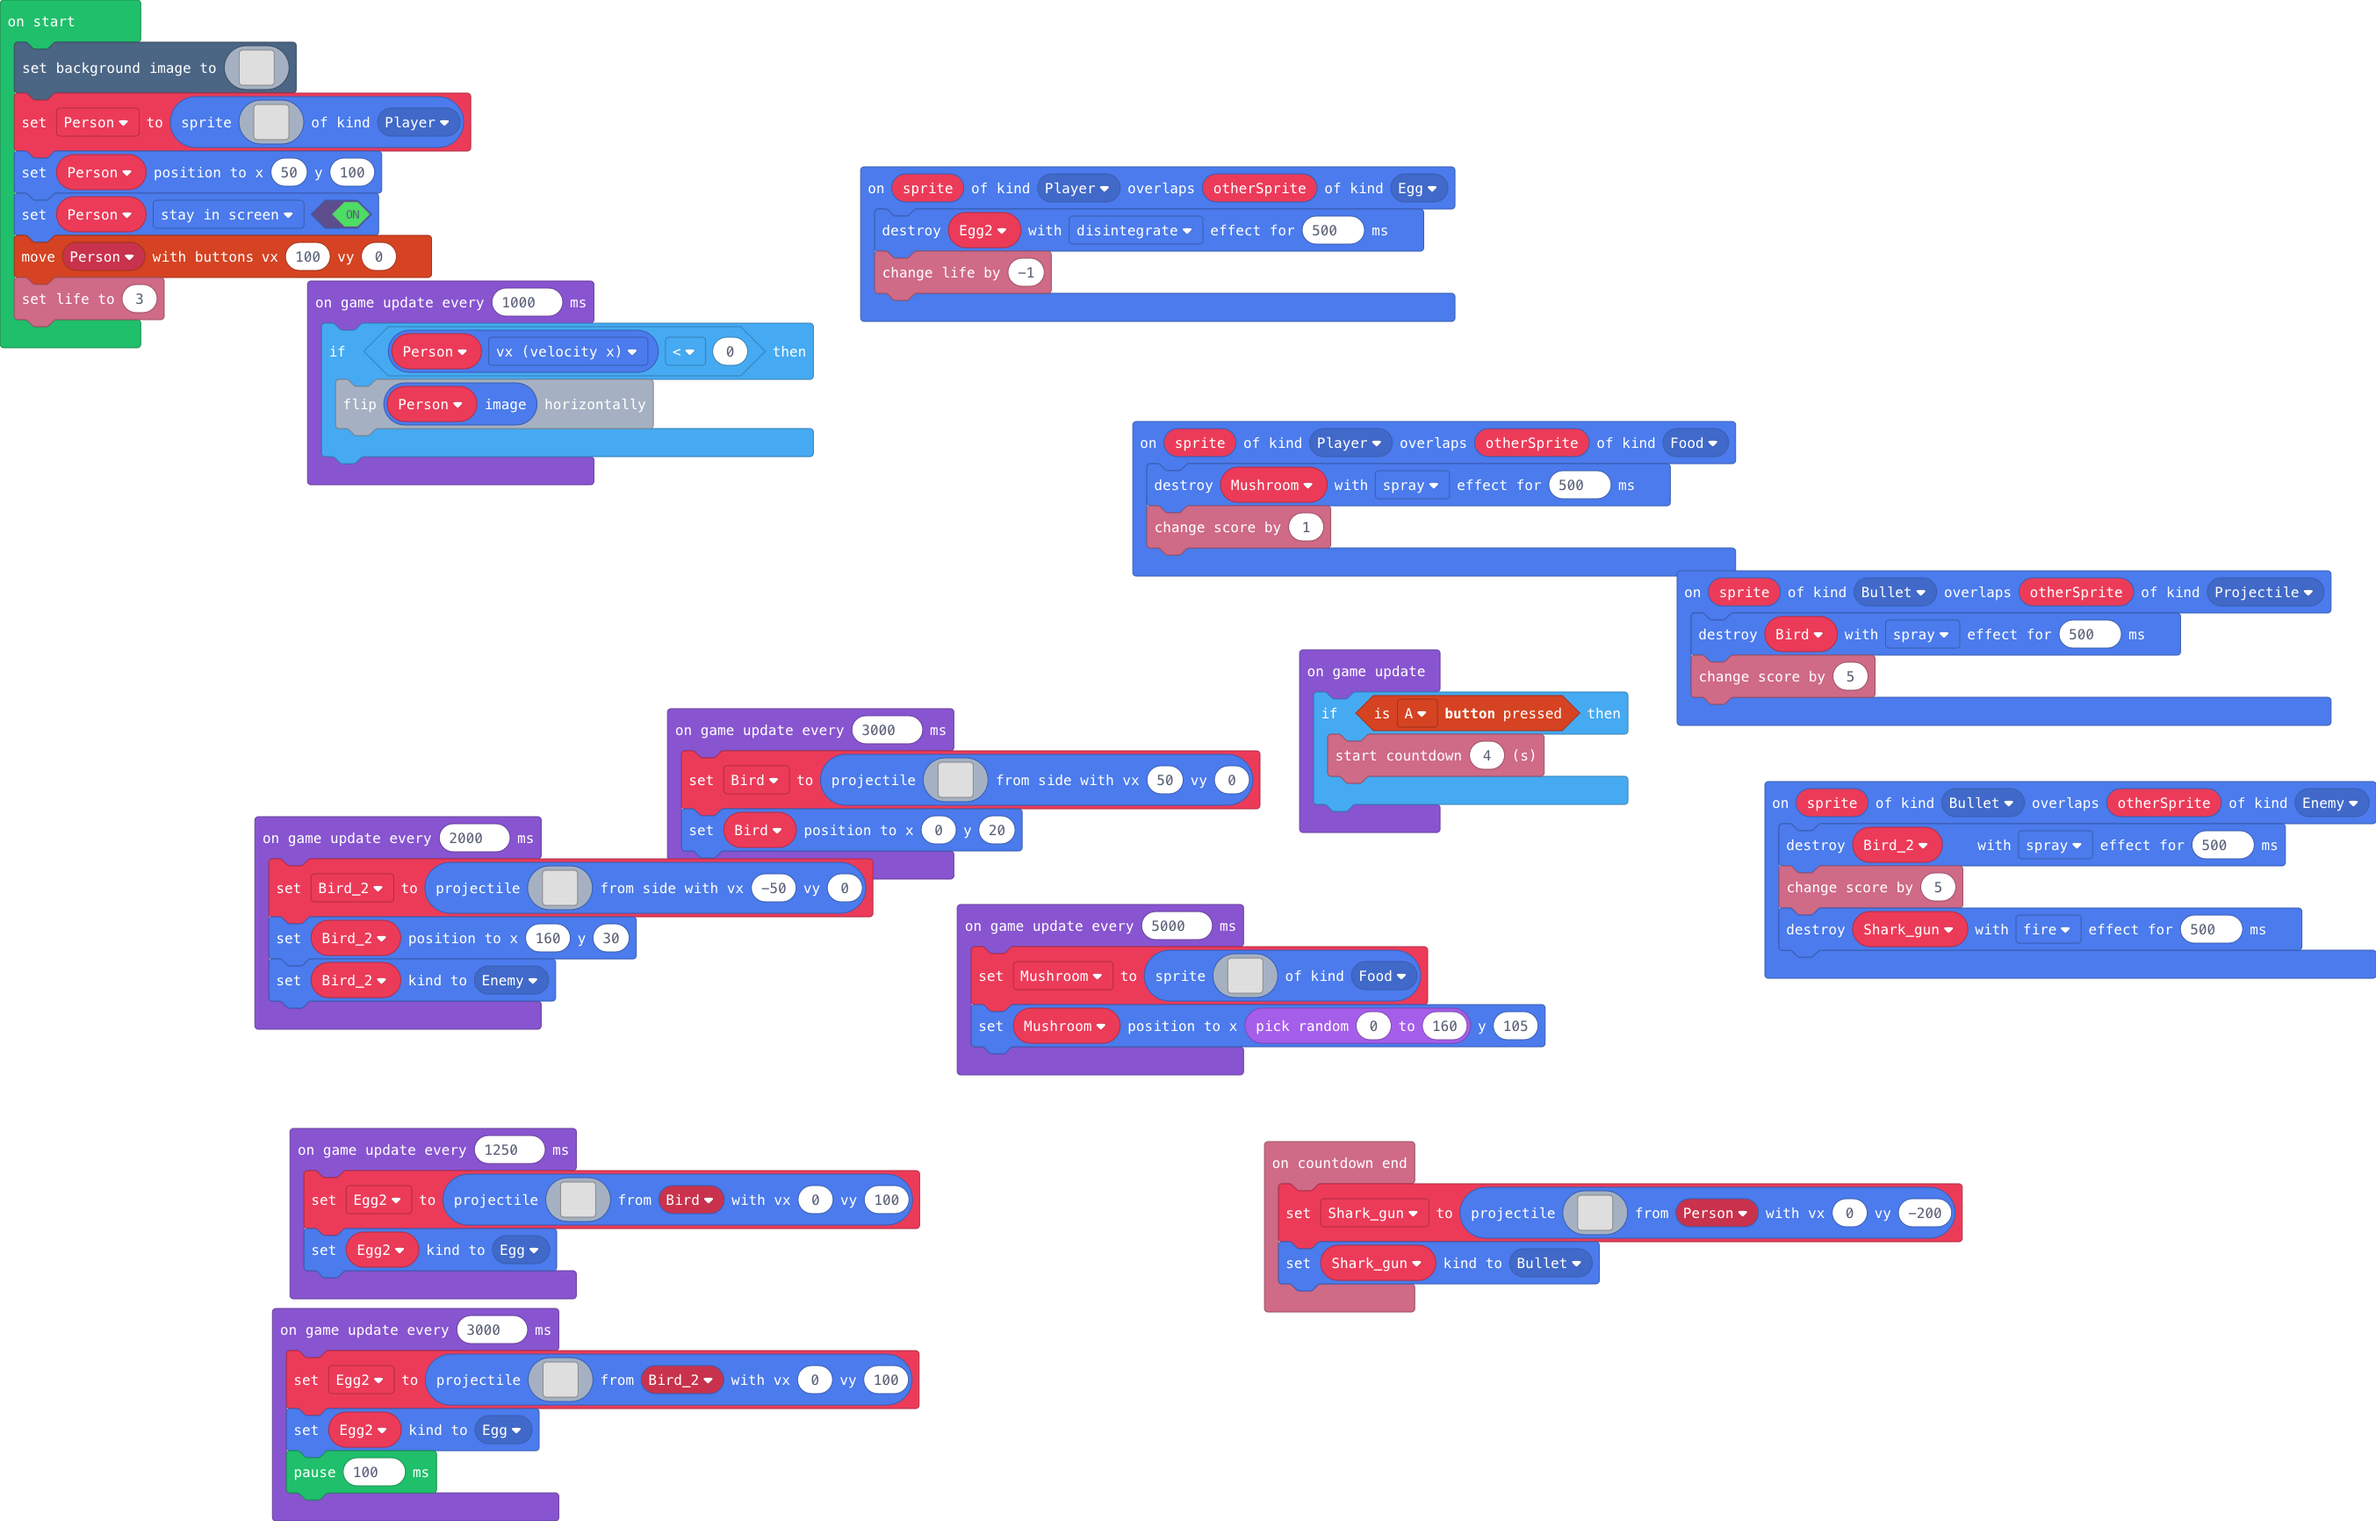
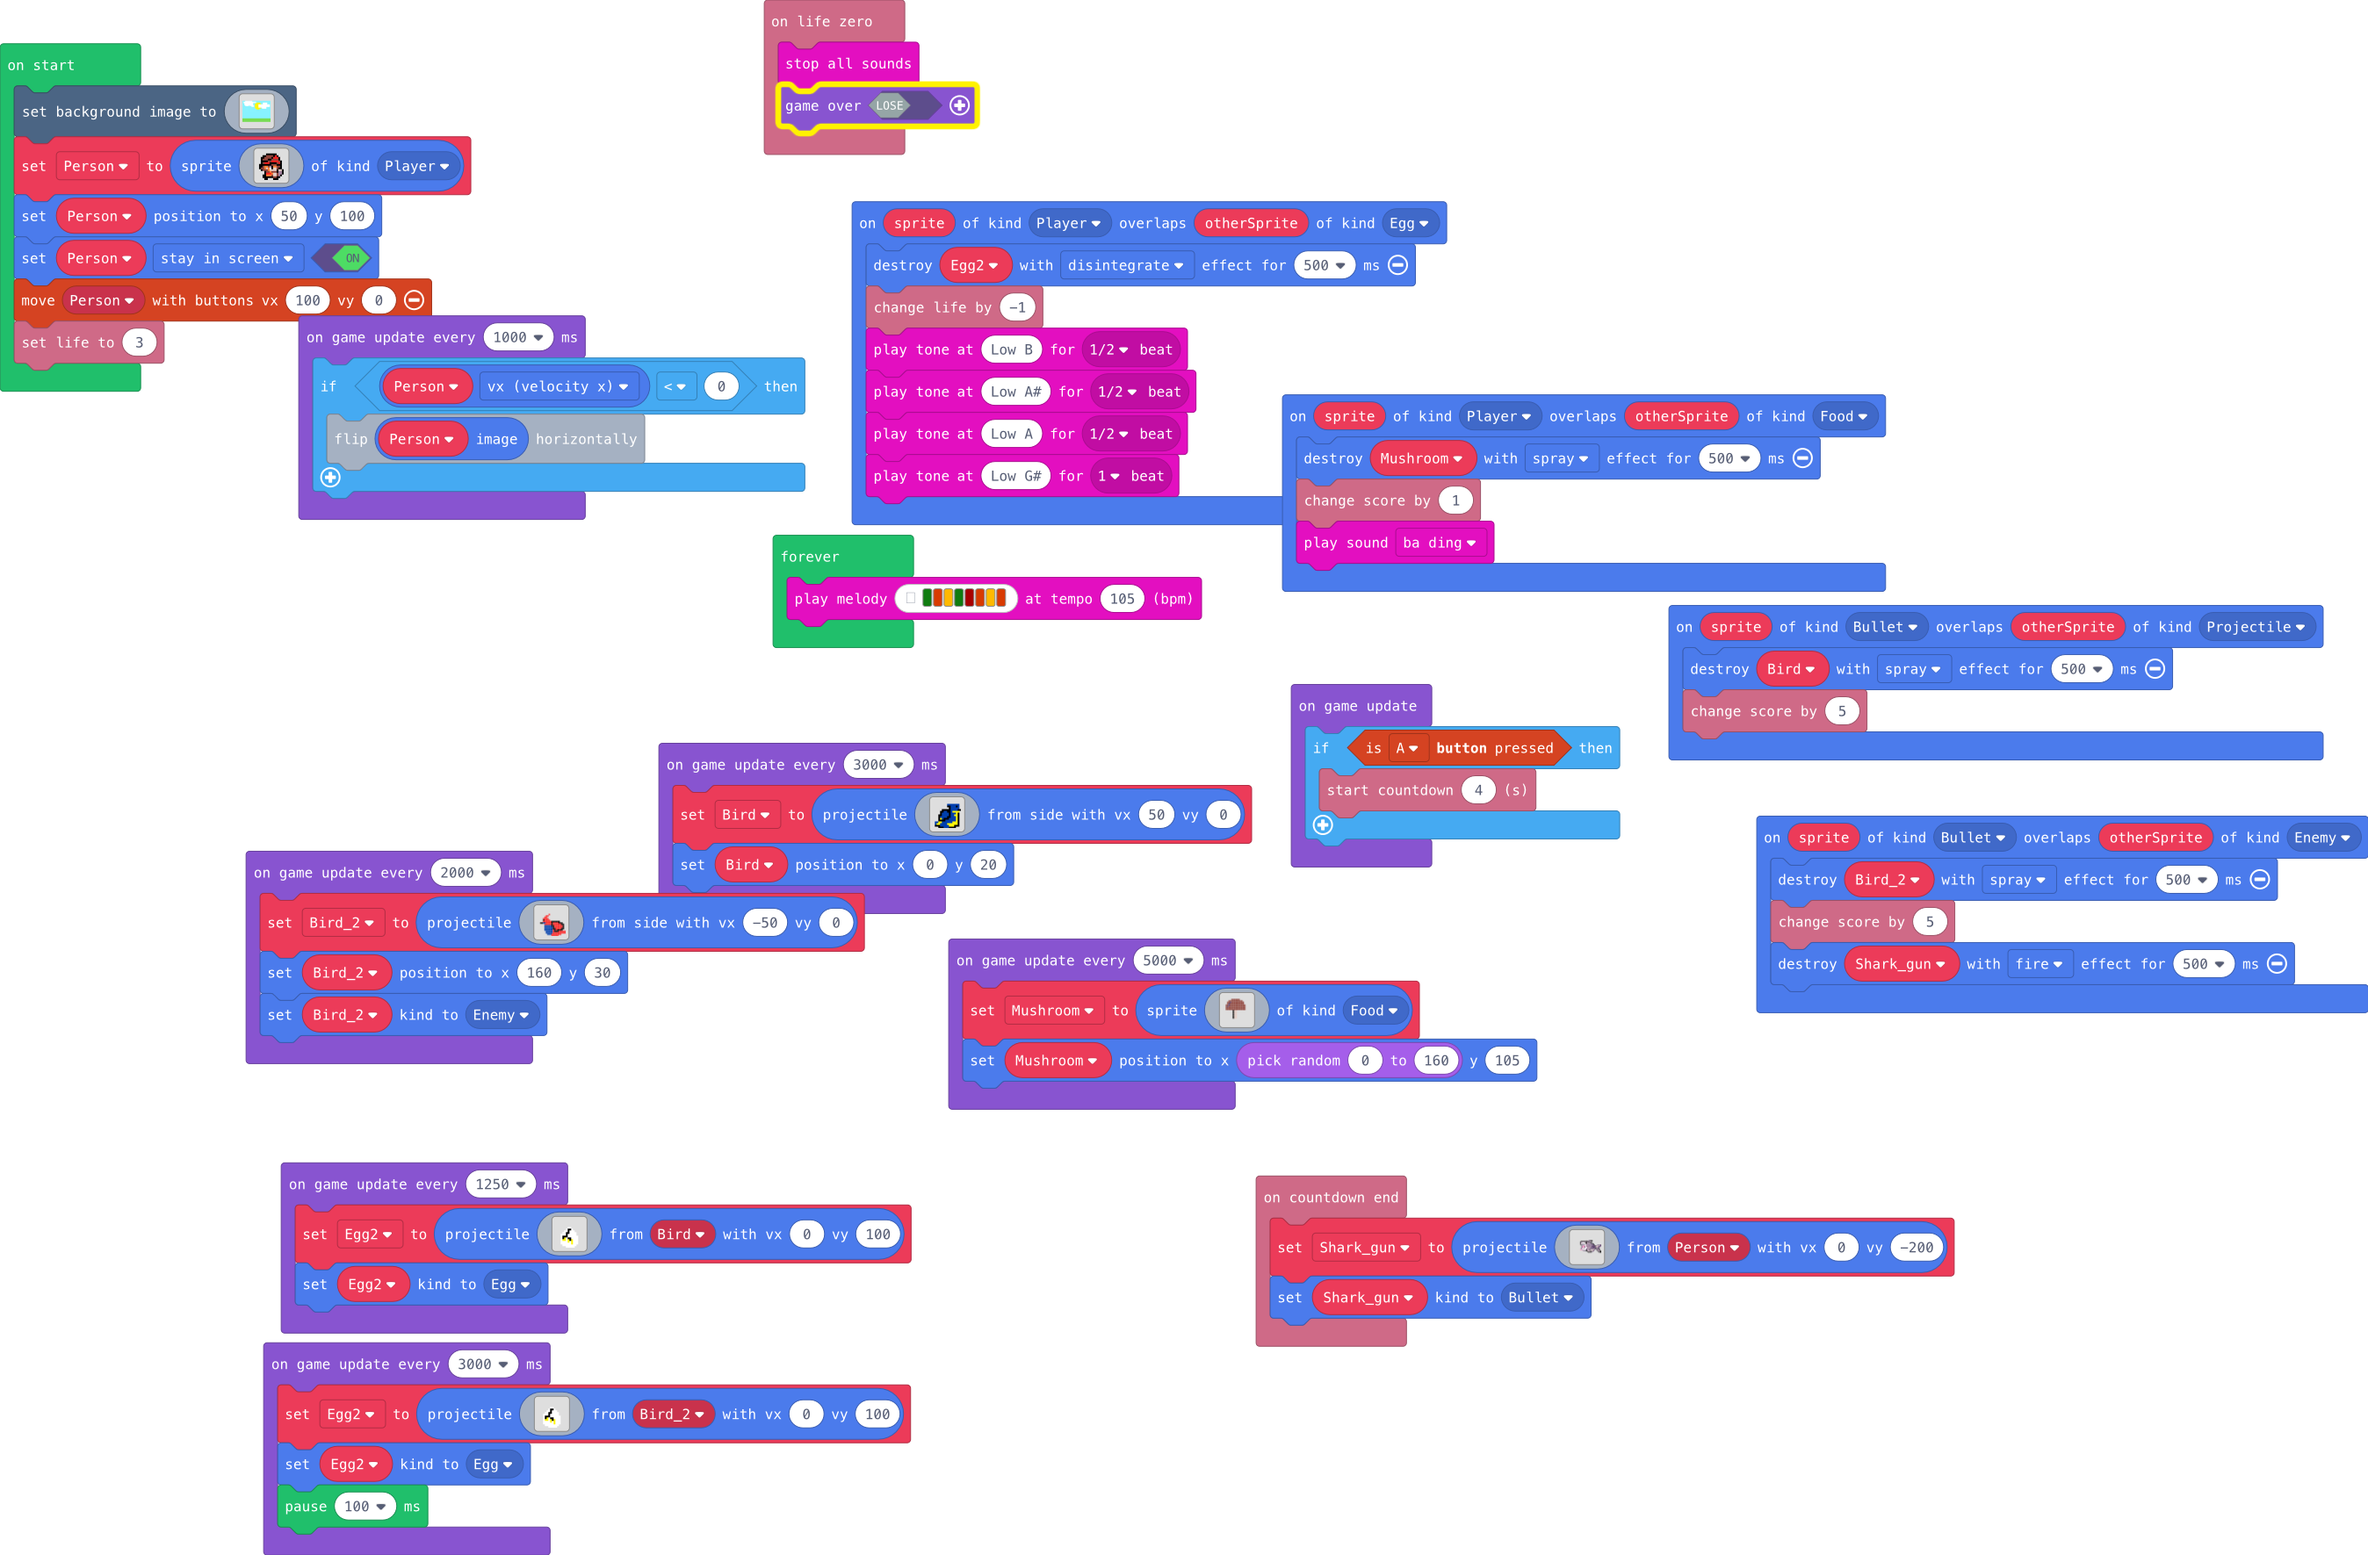
added music, final product/submission

diff --git a/main.ts b/main.ts
@@ -6,6 +6,10 @@ namespace SpriteKind {
 sprites.onOverlap(SpriteKind.Player, SpriteKind.Egg, function (sprite, otherSprite) {
     Egg2.destroy(effects.disintegrate, 500)
     info.changeLifeBy(-1)
+    music.playTone(247, music.beat(BeatFraction.Half))
+    music.playTone(233, music.beat(BeatFraction.Half))
+    music.playTone(220, music.beat(BeatFraction.Half))
+    music.playTone(208, music.beat(BeatFraction.Whole))
 })
 sprites.onOverlap(SpriteKind.Bullet, SpriteKind.Projectile, function (sprite, otherSprite) {
     Bird.destroy(effects.spray, 500)
@@ -14,6 +18,7 @@ sprites.onOverlap(SpriteKind.Bullet, SpriteKind.Projectile, function (sprite, ot
 sprites.onOverlap(SpriteKind.Player, SpriteKind.Food, function (sprite, otherSprite) {
     Mushroom.destroy(effects.spray, 500)
     info.changeScoreBy(1)
+    music.baDing.play()
 })
 info.onCountdownEnd(function () {
     Shark_gun = sprites.createProjectileFromSprite(img`
@@ -35,6 +40,10 @@ info.onCountdownEnd(function () {
 . . . . . . . . . . . . . . . . . . . f f f f f . . . . . . . . . f f f 
 `, Person, 0, -200)
     Shark_gun.setKind(SpriteKind.Bullet)
+})
+info.onLifeZero(function () {
+    music.stopAllSounds()
+    game.over(false)
 })
 sprites.onOverlap(SpriteKind.Bullet, SpriteKind.Enemy, function (sprite, otherSprite) {
     Bird_2.destroy(effects.spray, 500)
@@ -267,6 +276,9 @@ game.onUpdateInterval(5000, function () {
 . . . . . . . . . . . . . . . . . . . . 
 `, SpriteKind.Food)
     Mushroom.setPosition(Math.randomRange(0, 160), 105)
+})
+forever(function () {
+    music.playMelody("G B A G C5 B A B ", 105)
 })
 game.onUpdateInterval(3000, function () {
     Bird = sprites.createProjectileFromSide(img`
